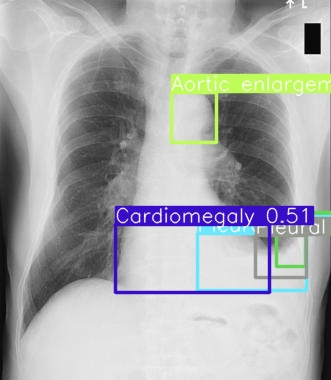
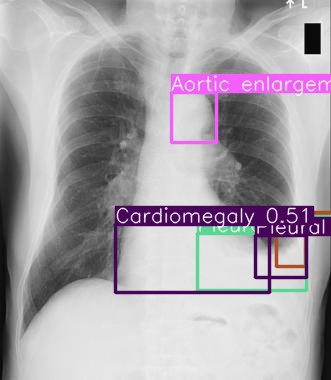
update post doctor predict in XrayController

Changed region(s): [[0.3323, 0.5211, 1.0, 0.7816], [0.4834, 0.1737, 1.0, 0.4053]]

diff --git a/app/templates/xray/xray.html b/app/templates/xray/xray.html
@@ -13,7 +13,7 @@
     <form id="form" action="/xray" method="post" class="xray d-flex w-100 flex-wrap p-2" enctype="multipart/form-data">
         <div style="background-color: #fff" class="col-lg-12 col-md-12 col-sm-12 pt-3 pb-3 d-flex flex-wrap">
             <div class="xray-slider w-100 form-group d-flex flex-wrap justify-content-end" style="float: right">
-                <input style="" class="w-25 form-control col-lg-12 col-md-12 col-sm-12" type="range" name="range"
+                <input style="" class="w-25 form-range form-control p-3 col-lg-12 col-md-12 col-sm-12" type="range" name="range"
                     id="myRange" min="0" max="1" step="0.1"
                     value="{% if conf_thres %}{{conf_thres}}{% else %}0{% endif %}" />
                 <p class="col-lg-12 col-md-12 col-sm-12 mt-2 d-flex flex-wrap justify-content-end">
@@ -31,8 +31,8 @@
                         border: 2px solid #387181;
                         cursor: pointer;
                         " class="xray-img--small mb-3 w-100">
-                        <img style="height: 60px; object-fit: cover" class="profile-img"
-                            src="https://res.cloudinary.com/dervs0fx5/image/upload/v1709813906/komiwbrgflxdtdxmd7je.png"
+                        <img style="height: 60px; object-fit: cover" class="profile-img w-100"
+                            src="{% if user_image %}{{user_image}}{% else %}/static/img/xray-img-check.png{% endif %}"
                             alt="" srcset="" />
                     </div>
                 </div>
@@ -71,12 +71,12 @@
                                         <p class="mb-0 w-75 text-left text-secondary">
                                             {{sick_name_eng}} ({{sick_name}})
                                         </p>
-                                        <div>
+                                        <!-- <div> -->
                                             <p class="mb-0 w-25 text-right text-secondary">
                                                 {{percentage}}%
                                             </p>
-                                            <i style="font-size: 18px" class="fa-solid fa-circle-minus text-danger"></i>
-                                        </div>
+                                            <!-- <i style="font-size: 18px" class="fa-solid fa-circle-minus text-danger"></i> -->
+                                        <!-- </div> -->
                                     </div>
                                     <div style="
                                         height: 5px;
@@ -92,8 +92,8 @@
                             </div>
 
                             <div class="tab-pane fade" id="profile" role="tabpanel" aria-labelledby="profile-tab">
-                                {% for sick_name, percentage, sick_name_eng, colors in
-                                doctor_zip_data %}
+                                {% for sick_name, percentage, sick_name_eng, colors in zip_data %}
+                                <!-- sick_name, percentage, sick_name_eng, colors -->
                                 <div style="cursor: pointer" class="text-light xray-predict__item w-100 mb-2">
                                     <div class="xray-predict__title d-flex flex-wrap mb-2">
                                         <p class="mb-0 w-75 text-left text-secondary">
@@ -156,12 +156,12 @@
 
     <!--    add modal -->
     <div class="modal fade" id="add-record">
-        <div class="modal-dialog">
+        <div class="modal-dialog modal-lg">
             <div class="modal-content">
                 <form onsubmit="return false" method="post">
                     <!-- Modal Header -->
                     <div class="modal-header">
-                        <h5 class="modal-title">Add User</h5>
+                        <h5 class="modal-title">Add Record</h5>
                         <button type="button" class="close" data-dismiss="modal">
                             &times;
                         </button>
@@ -171,56 +171,92 @@
                     <div class="modal-body">
                         <ul class="nav nav-tabs mb-3" id="myTab" role="tablist">
                             <li class="nav-item">
-                              <a class="nav-link active" id="home-tab" data-toggle="tab" href="#home" role="tab" aria-controls="home" aria-selected="true">Record</a>
+                              <a class="nav-link active" id="home-tab" data-toggle="tab" href="#home_add" role="tab" aria-controls="home" aria-selected="true">Record</a>
                             </li>
                             <li class="nav-item">
-                              <a class="nav-link" id="profile-tab" data-toggle="tab" href="#profile" role="tab" aria-controls="profile" aria-selected="false">Patient</a>
+                              <a class="nav-link" id="profile-tab" data-toggle="tab" href="#profile_add" role="tab" aria-controls="profile" aria-selected="false">Patient</a>
                             </li>
                             <li class="nav-item">
-                              <a class="nav-link" id="contact-tab" data-toggle="tab" href="#contact" role="tab" aria-controls="contact" aria-selected="false">Contact</a>
+                              <a class="nav-link" id="contact-tab" data-toggle="tab" href="#contact_add" role="tab" aria-controls="contact" aria-selected="false">Contact</a>
                             </li>
-                          </ul>
+                        </ul>
+
                           <div class="tab-content" id="myTabContent">
                             <!-- add record -->
-                            <div class="tab-pane fade show active" id="home" role="tabpanel" aria-labelledby="home-tab">
-                                <div class="form-group">
+                            <div class="tab-pane fade show active d-flex flex-wrap" id="home_add" role="tabpanel" aria-labelledby="home-tab">
+                                <div class="form-group col-lg-6 col-md-6 col-sm-6">
                                     <div class="form-group">
-                                        <label for="full_name_add">Full name</label>
-                                        <input class="form-control" type="text" name="full_name_add" id="full_name_add"
-                                            placeholder="Full name" required />
+                                        <div class="form-group">
+                                            <label for="full_name_add">Full name</label>
+                                            <input class="form-control" type="text" name="full_name_add" id="full_name_add"
+                                                placeholder="Full name" required />
+                                        </div>
+            
+                                        <div class="form-group">
+                                            <label for="number_add">PID</label>
+                                            <input class="form-control" type="number" name="number_add" id="number_add"
+                                                placeholder="PID" required />
+                                        </div>
+            
+                                        <div class="form-group">
+                                            <label for="age_add">Age</label>
+                                            <input class="form-control" type="text" name="age_add" id="age_add"
+                                                placeholder="Age" required />
+                                        </div>
+            
+                                        <div class="form-group">
+                                            <label for="phone_add">Phone number</label>
+                                            <input class="form-control" placeholder="Phone number" type="number" name="phone_add" id="phone_add" required />
+                                        </div>
+            
+                                        <div class="form-group">
+                                            <label for="gender_add">Gender</label>
+                                            <select class="form-control" name="gender_add" id="gender_add">
+                                                <option value="">--Choose gender--</option>
+                                                <option value="Male">Male</option>
+                                                <option value="Female">Female</option>
+                                            </select>
+                                        </div>
                                     </div>
-        
+                                </div>
+
+                                <div class="form-group col-lg-6 col-md-6 col-sm-6">
                                     <div class="form-group">
-                                        <label for="gender_add">Gender</label>
-                                        <select class="form-control" name="gender_add" id="gender_add" required>
-                                            <option value="">--Choose gender--</option>
-                                            <option value="Male">Male</option>
-                                            <option value="Female">Female</option>
-                                        </select>
-                                    </div>
-        
-                                    <div class="form-group">
-                                        <label for="email_add">Email</label>
-                                        <input class="form-control" type="email" name="email_add" id="email_add"
-                                            placeholder="Email" required />
-                                    </div>
-        
-                                    <div class="form-group">
-                                        <label for="dob_add">Birthday</label>
-                                        <input class="form-control" type="date" name="dob_add" id="dob_add" required />
-                                    </div>
-        
-                                    <div class="form-group">
-                                        <label for="phone_add">Phone number</label>
-                                        <input class="form-control" type="number" name="phone_add" id="phone_add"
-                                            placeholder="Phone number" required />
+                                        <div class="form-group">
+                                            <label for="address_add">Address</label>
+                                            <input class="form-control" type="text" name="address_add" id="address_add"
+                                                placeholder="Address" required />
+                                        </div>
+            
+                                        <div class="form-group">
+                                            <label for="date_add">Birthday</label>
+                                            <input type="date" class="form-control" name="date_add" id="date_add">
+                                        </div>
+            
+                                        <div class="form-group">
+                                            <label for="email_add">Email</label>
+                                            <input class="form-control" type="email" name="email_add" id="email_add"
+                                                placeholder="Email" required />
+                                        </div>
+            
+                                        <div class="form-group">
+                                            <label for="doctor_predict_add">Prediction</label>
+                                            <!-- <input class="form-control" type="date" name="dob_add" id="dob_add" required /> -->
+                                            <textarea class="form-control" style="white-space: pre-wrap;" name="doctor_predict_add" id="doctor_predict_add" cols="30" rows="5" contenteditable="true">{% for item in sick_name %}{{ item }}{% if not loop.last %}&#13;&#10;{% endif %}{% endfor %}</textarea>
+                                        </div>
+            
+                                        <!-- <div class="form-group">
+                                            <label for="phone_add">Phone number</label>
+                                            <input class="form-control" type="number" name="phone_add" id="phone_add"
+                                                placeholder="Phone number" required />
+                                        </div> -->
                                     </div>
                                 </div>
                             </div>
                             <!-- add patient if not exist -->
-                            <div class="tab-pane fade" id="profile" role="tabpanel" aria-labelledby="profile-tab">hello 2</div>
+                            <div class="tab-pane fade" id="profile_add" role="tabpanel" aria-labelledby="profile-tab">hello 2</div>
 
-                            <div class="tab-pane fade" id="contact" role="tabpanel" aria-labelledby="contact-tab">hello 3</div>
+                            <div class="tab-pane fade" id="contact_add" role="tabpanel" aria-labelledby="contact-tab">hello 3</div>
                           </div>
                         
                     </div>

diff --git a/app/templates/xray/change_range.html b/app/templates/xray/change_range.html
@@ -1,6 +1,6 @@
 <div class="xray-img__original--outer pt-2 pb-2 col-lg-1 col-md-2 col-sm-2">
     <div style="border-radius: 10px; overflow: hidden;border: 2px solid #387181; cursor: pointer;" class="xray-img--small mb-3 w-100">
-        <img style="height: 60px; object-fit:cover" class="profile-img" src="https://res.cloudinary.com/dervs0fx5/image/upload/v1709813906/komiwbrgflxdtdxmd7je.png" alt="" srcset="">
+        <img style="height: 60px; object-fit:cover" class="profile-img w-100" src="{% if user_image %}{{user_image}}{% else %}/static/img/xray-img-check.png{% endif %}" alt="" srcset="">
     </div>
 </div>
 
@@ -31,10 +31,10 @@
                     <div class="xray-predict__title d-flex flex-wrap mb-2">
                         <p class="mb-0 w-75 text-left text-secondary">{{sick_name_eng}} ({{sick_name}})</p>
                         <!-- <p class="mb-0 w-25 text-right text-secondary">{{percentage}}%</p> -->
-                        <div>
+                        <!-- <div> -->
                             <p class="mb-0 w-25 text-right text-secondary">{{percentage}}%</p>
-                            <i style="font-size: 18px;" class="fa-solid fa-circle-minus text-danger"></i>
-                        </div>
+                            <!-- <i style="font-size: 18px;" class="fa-solid fa-circle-minus text-danger"></i> -->
+                        <!-- </div> -->
                     </div>
                     <div style="height: 5px; background-color: #ccc; border-radius: 10px; overflow: hidden" class="xray-percent--outer w-100">
                         <div style="width: {{ percentage }}%; background-color: rgb{{colors}}" class="xray-percent h-100">

diff --git a/app/controllers/XrayController.py b/app/controllers/XrayController.py
@@ -77,13 +77,13 @@ class XrayController:
                             real_percentage.append((round(float_percentage, 2)))
                             # real_percentage.append(int(percentage[i]))
                         
-                        zip_data = zip(sick_name, real_percentage, sick_name_eng, colors);
+                        zip_data = list(zip(sick_name, real_percentage, sick_name_eng, colors));
                         doctor_zip_data = zip_data;
                         # print(real_percentage)
                         return render_template("index.html", user_image = path_ , rand = str(random()), percentage = percentage, sick_name = sick_name, conf_thres = 0.3,
                         real_percentage = real_percentage, zip_data = zip_data, doctor_zip_data = doctor_zip_data, msg="Tải file lên thành công", ndet = ndet, label=label_name, content = 'index', page = 'xray')
                     else:
-                        return render_template('index.html',user_image = image.filename , 
+                        return render_template('index.html',user_image = '/static/img/'+ image.filename , conf_thres = 0.3,
                         rand = str(random()), msg='Không nhận diện được bệnh', ndet = ndet, content = 'index', page = 'xray')
                 else:
                     # Nếu không có file thì yêu cầu tải file
@@ -96,72 +96,10 @@ class XrayController:
 
         else:
             # Nếu là GET thì hiển thị giao diện upload
-            return render_template('index.html', content = 'index', page = 'xray')
-        
+            return render_template('index.html', content = 'index', page = 'xray')    
+
 
     # [POST, AJAX]
-    # def load_data_ajax(self, app):
-    #     ndet = 0
-
-    #     if request.method == "POST": 
-    #         try:
-    #             data = request.form;
-    #             # image = request.files['file']
-    #             # print(image.filename)
-    #             path_ = data.get('img_link');
-    #             conf_thres_ajax = data.get('range');
-    #             print(path_)
-    #             print(conf_thres_ajax)
-
-    #             if data:
-    #                 # static_folder_path = os.path.join(app.root_path, 'static')
-    #                 # path_to_save = str(os.path.join(static_folder_path, 'img', image.filename))
-    #                 path_to_save = session.get('path_to_save', 'Guest')
-    #                 print(path_to_save)
-
-    #                 # print(str(path_to_save))
-
-    #                 # image.save(path_to_save)
-
-    #                 # Convert image to dest size tensor
-    #                 frame = cv2.imread(path_to_save)
-
-    #                 # frame, ndet, label_name, percentage, sick_name = self.yolov6_model.infer(frame, conf_thres=0.2, iou_thres=0.4)
-    #                 frame, ndet, label_name, percentage, sick_name, sick_name_eng, colors = self.yolov6_model.infer(frame, conf_thres=conf_thres_ajax, iou_thres=0.4)
-
-    #                 if ndet!=0:
-    #                     cv2.imwrite(path_to_save, frame)
-
-    #                     # # Trả về kết quả
-    #                     # print("img: ",image)
-    #                     # Chuyển đổi mảng NumPy thành định dạng hình ảnh
-    #                     # image_data = cv2.imencode('.png', frame)[1].tobytes()
-
-    #                     # res = cloudinary.uploader.upload(image_data);
-    #                     # path_ = res['secure_url'];
-    #                     # print(path_)
-    #                     real_percentage = []
-    #                     for i in range(len(percentage)):
-    #                         float_percentage = float((percentage[i])) * 100
-    #                         # print(float_percentage)
-    #                         real_percentage.append((round(float_percentage, 2)))
-                        
-    #                     zip_data = zip(sick_name, real_percentage, sick_name_eng, colors);
-    #                     doctor_zip_data = zip_data;
-    #                     # print(real_percentage)
-    #                     return render_template("change_range.html", user_image = path_ , rand = str(random()), percentage = percentage, sick_name = sick_name, conf_thres = 0.3,
-    #                     real_percentage = real_percentage, zip_data = zip_data, doctor_zip_data = doctor_zip_data, msg="Tải file lên thành công", ndet = ndet, label=label_name, content = 'index', page = 'xray')
-    #                 else:
-    #                     return render_template('change_range.html',user_image = path_ , 
-    #                     rand = str(random()), msg='Không nhận diện được bệnh', ndet = ndet, content = 'index', page = 'xray')
-    #             else:
-    #                 # Nếu không có file thì yêu cầu tải file
-    #                 return render_template('change_range.html', msg='Hãy chọn file để tải lên', ndet = ndet, content = 'index', page = 'xray')
-
-    #         except Exception as ex:
-    #             print(ex)
-    #             return render_template('change_range.html', msg='Không nhận diện được bệnh', content = 'index', page = 'xray', ndet = ndet)
-
     def load_data_ajax(self, app):
         ndet = 0
 
@@ -202,7 +140,7 @@ class XrayController:
                             float_percentage = float((percentage[i])) * 100
                             real_percentage.append((round(float_percentage, 2)))
                         
-                        # image_data = cv2.imencode('.png', frame)[1].tobytes()00000000000000000000000000000000000
+                        # image_data = cv2.imencode('.png', frame)[1].tobytes()
                         
                         # with open('/static/img/image.png', 'wb') as f:
                         #     f.write(image_data)
@@ -218,7 +156,7 @@ class XrayController:
                         return render_template("/xray/change_range.html", user_image = path_ , rand = str(random()), percentage = percentage, sick_name = sick_name, conf_thres= conf_thres_ajax, 
                         real_percentage = real_percentage, zip_data = zip_data, doctor_zip_data = doctor_zip_data, msg="Tải file lên thành công", ndet = ndet, label=label_name, content = 'index', page = 'xray')
                     else:
-                        return render_template('/xray/change_range.html',user_image = 'static/img/image.png' , 
+                        return render_template('/xray/change_range.html',user_image = session.get('path_to_save') , conf_thres= conf_thres_ajax,
                         rand = str(random()), msg='Không nhận diện được bệnh', ndet = ndet, content = 'index', page = 'xray')
                 else:
                     # Nếu không có dữ liệu, trả về thông báo lỗi

diff --git a/app/models/Patient.py b/app/models/Patient.py
@@ -2,7 +2,7 @@ from database import DataBaseUtils
 from flask import request
 
 class Patient():
-    def __init__(self, patient_id, name, age, img, phone, PID, gender, address, date_created, dob):
+    def __init__(self, patient_id, name, age, img, phone, PID, gender, address, date_created, dob, email):
         self.__patient_id = patient_id;
         self.__name = name;
         self.__age = age;
@@ -13,6 +13,7 @@ class Patient():
         self.__address = address;
         self.__date_created = date_created;
         self.__dob = dob;
+        self.__email = email;
 
     @property
     def _patient_id(self):
@@ -93,6 +94,14 @@ class Patient():
     @_dob.setter
     def _dob(self, value):
         self.__dob = value
+
+    @property
+    def _email(self):
+        return self.__email
+
+    @_email.setter
+    def _email(self, value):
+        self.__email = value
 
 
 class PatientModel(DataBaseUtils):
